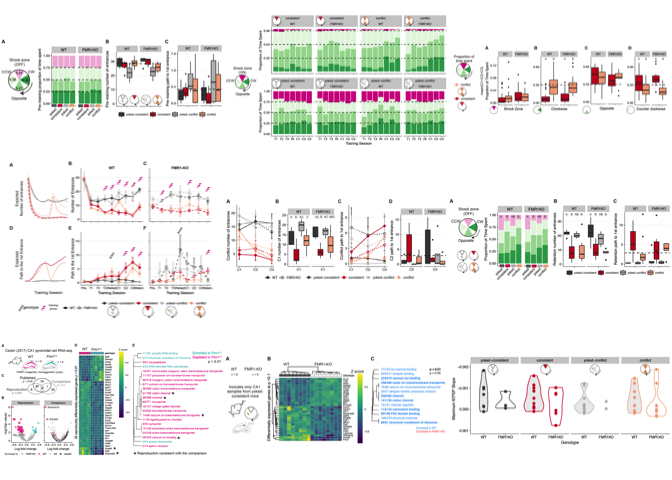
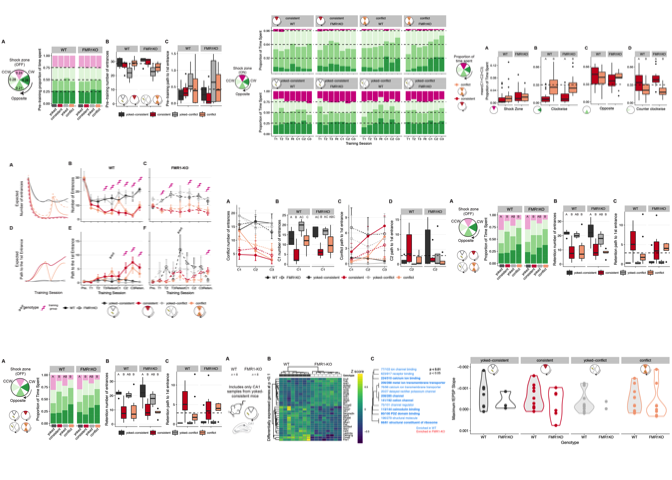
colorblindr

Changed region(s): [[0.0, 0.7188, 0.3438, 0.9688]]

diff --git a/scripts/07_colorblindr.md b/scripts/07_colorblindr.md
@@ -79,6 +79,6 @@ Hippocampus color scheme
 
     plot_grid(p, t6, t7, 
               q, t10, t9,
-              r, t3, t31)
+              t9, t3, t31)
 
 ![](../figures/07_colorblindr/overview-1.png)
